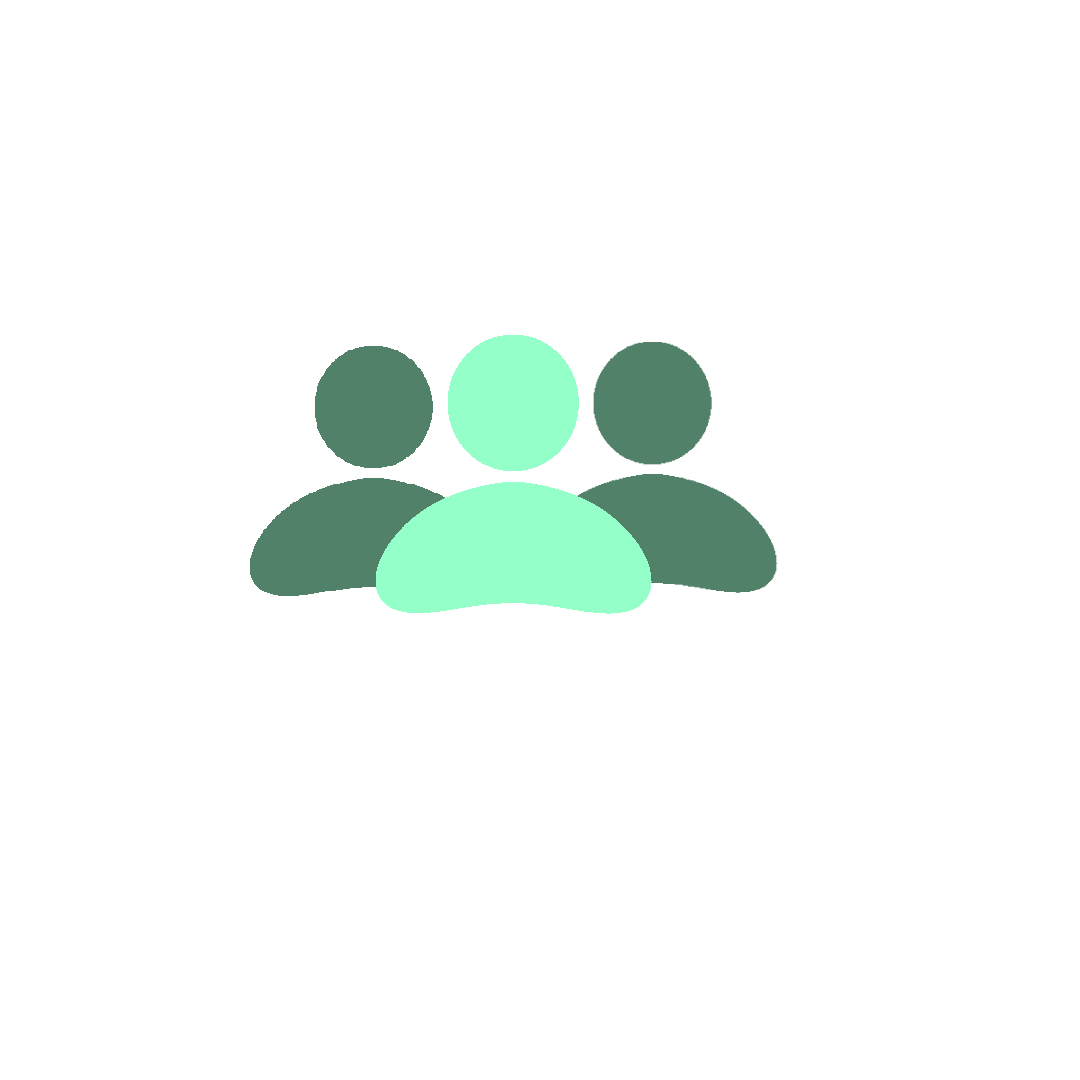
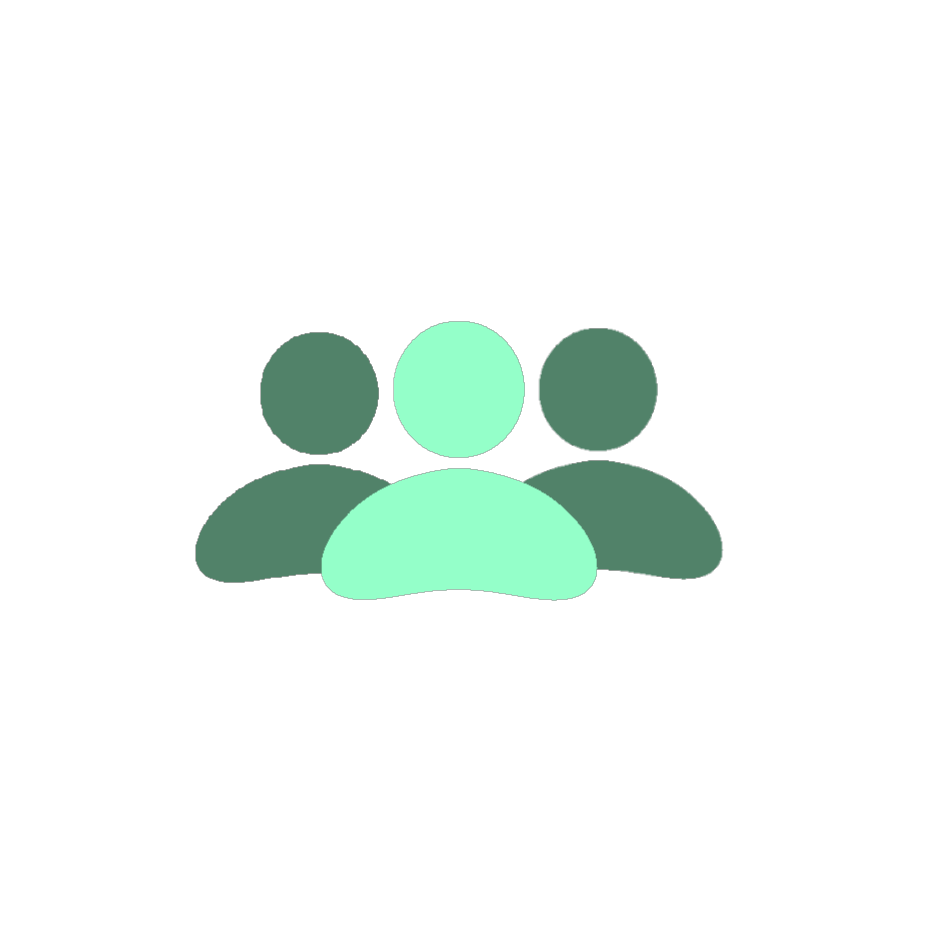
Képek/ikonok cseréje

Changed region(s): [[0.2119, 0.3027, 0.787, 0.6659]]

diff --git a/my-react-app/src/MainPageTiles.css b/my-react-app/src/MainPageTiles.css
@@ -114,43 +114,39 @@
 }
 
 #unassignedPacksIcon {
-  width: 20vw;
+  width: 8vw;
   height: auto;
   max-width: fit-content;
 }
 
 #hubLogo {
-  width: 10vw;
+  width: 6vw;
   height: auto;
   max-width: fit-content;
 }
 
 #sbcLogo {
+  height: 14vh;
   width: auto;
-  height: 40vw;
-  max-width: fit-content;
-  max-height: 100px;
+  max-height: fit-content;
 }
 
 #draftLogo {
-  height: 30vw;
+  height: 5vh;
   width: auto;
   max-height: fit-content;
-  max-height: 100px;
 }
 
 #storeLogo {
-  width: 20vw;
-  height: auto;
-  max-width: fit-content;
-  max-height: 100px;
+  height: 6vh;
+  width: auto;
+  max-height: fit-content;
 }
 
 #objectivesLogo {
-  width: 15vw;
-  height: auto;
-  max-width: fit-content;
-  max-height: 100px;
+  height: 6vh;
+  width: auto;
+  max-height: fit-content;
 }
 
 /*-----------------Egyéb formázások-------------------*/
@@ -222,28 +218,27 @@ h3 {
   }
 
   #unassignedPacksIcon {
-    width: 30vw;
+    width: 15vw;
     height: auto;
     max-width: fit-content;
   }
 
   #hubLogo {
-    width: 17vw;
+    width: 13vw;
     height: auto;
     max-width: fit-content;
   }
 
   #sbcLogo {
-    width: 17vw;
-    height: auto;
-    max-width: fit-content;
+    height: 20vh;
+    width: auto;
+    max-height: fit-content;
   }
 
   #draftLogo {
-    width: 30vw;
-    height: auto;
-    max-width: fit-content;
-    max-height: 80px;
+    height: 15vh;
+    width: auto;
+    max-height: fit-content;
   }
 
   #storeLogo {
@@ -313,7 +308,7 @@ h3 {
 
   /*------------Ikonok/képek--------------*/
   #unassignedPacksIcon {
-    width: 30vw;
+    width: 20vw;
     height: auto;
     max-width: fit-content;
   }
@@ -325,20 +320,20 @@ h3 {
   }
 
   #sbcLogo {
-    width: 17vw;
+    width: 30vw;
     height: auto;
     max-width: fit-content;
   }
 
   #draftLogo {
-    width: 30vw;
+    width: 20vw;
     height: auto;
     max-width: fit-content;
     max-height: 100px;
   }
 
   #storeLogo {
-    width: 30vw;
+    width: 20vw;
     height: auto;
     max-width: fit-content;
     max-height: 100px;

diff --git a/my-react-app/src/MainPageTilesUnassigned.jsx b/my-react-app/src/MainPageTilesUnassigned.jsx
@@ -1,5 +1,6 @@
 import "./MainPageTiles.css";
-import UnassignedPacks from "./assets/allPacks.png";
+import UnassignedPacks from "./assets/unassignedCards.png";
+import StoreLogo from "./assets/allPacks.png";
 import HubLogo from "./assets/logoWhite.png";
 import SbcLogo from "./assets/sbcIcon.png";
 import DraftLogo from "./assets/draftLogo.png";
@@ -64,7 +65,7 @@ function MainPageTilesUnassigned() {
               <p>Open packs to obtain new cards.</p>
             </div>
             <div id="tileImages2" className="col-12 col-md-4">
-              <img src={UnassignedPacks} alt="Store Logo" id="storeLogo" />
+              <img src={StoreLogo} alt="Store Logo" id="storeLogo" />
             </div>
           </a>
           <a className="col-12" id="tile2" href="">

diff --git a/my-react-app/src/MainPageTiles.jsx b/my-react-app/src/MainPageTiles.jsx
@@ -1,5 +1,6 @@
 import "./MainPageTiles.css";
-import UnassignedPacks from "./assets/allPacks.png";
+import UnassignedPacks from "./assets/unassignedCards.png";
+import StoreLogo from "./assets/allPacks.png";
 import HubLogo from "./assets/logoWhite.png";
 import SbcLogo from "./assets/sbcIcon.png";
 import DraftLogo from "./assets/draftLogo.png";
@@ -49,7 +50,7 @@ function MainPageTiles() {
               <p>Open packs to obtain new cards.</p>
             </div>
             <div id="tileImages2" className="col-12 col-md-4">
-              <img src={UnassignedPacks} alt="Store Logo" id="storeLogo" />
+              <img src={StoreLogo} alt="Store Logo" id="storeLogo" />
             </div>
           </a>
           <a className="col-12" id="tile2" href="">

diff --git a/my-react-app/src/index.jsx b/my-react-app/src/index.jsx
@@ -20,6 +20,6 @@ createRoot(document.getElementById("root2")).render(
 
 createRoot(document.getElementById("root3")).render(
   <StrictMode>
-    <MainPageTiles />
+    <MainPageTilesUnassigned />
   </StrictMode>,
 );
